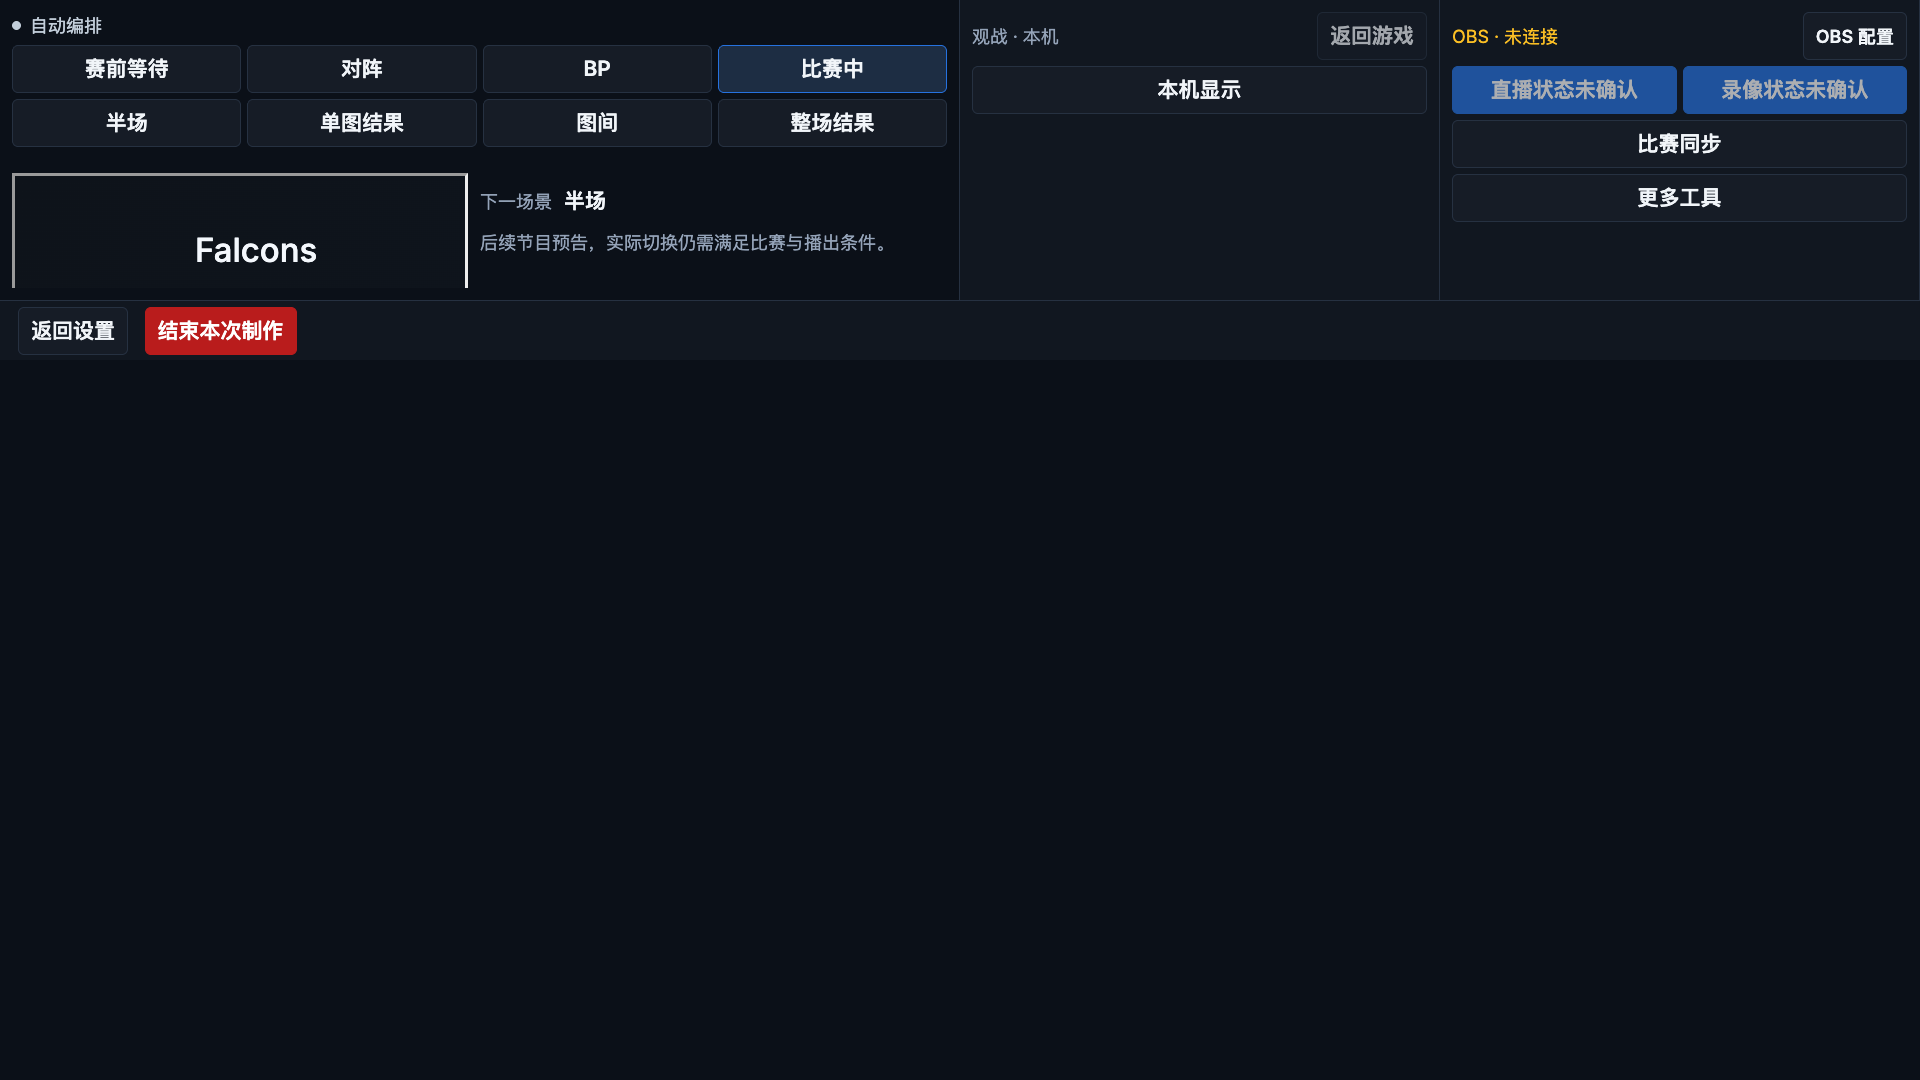
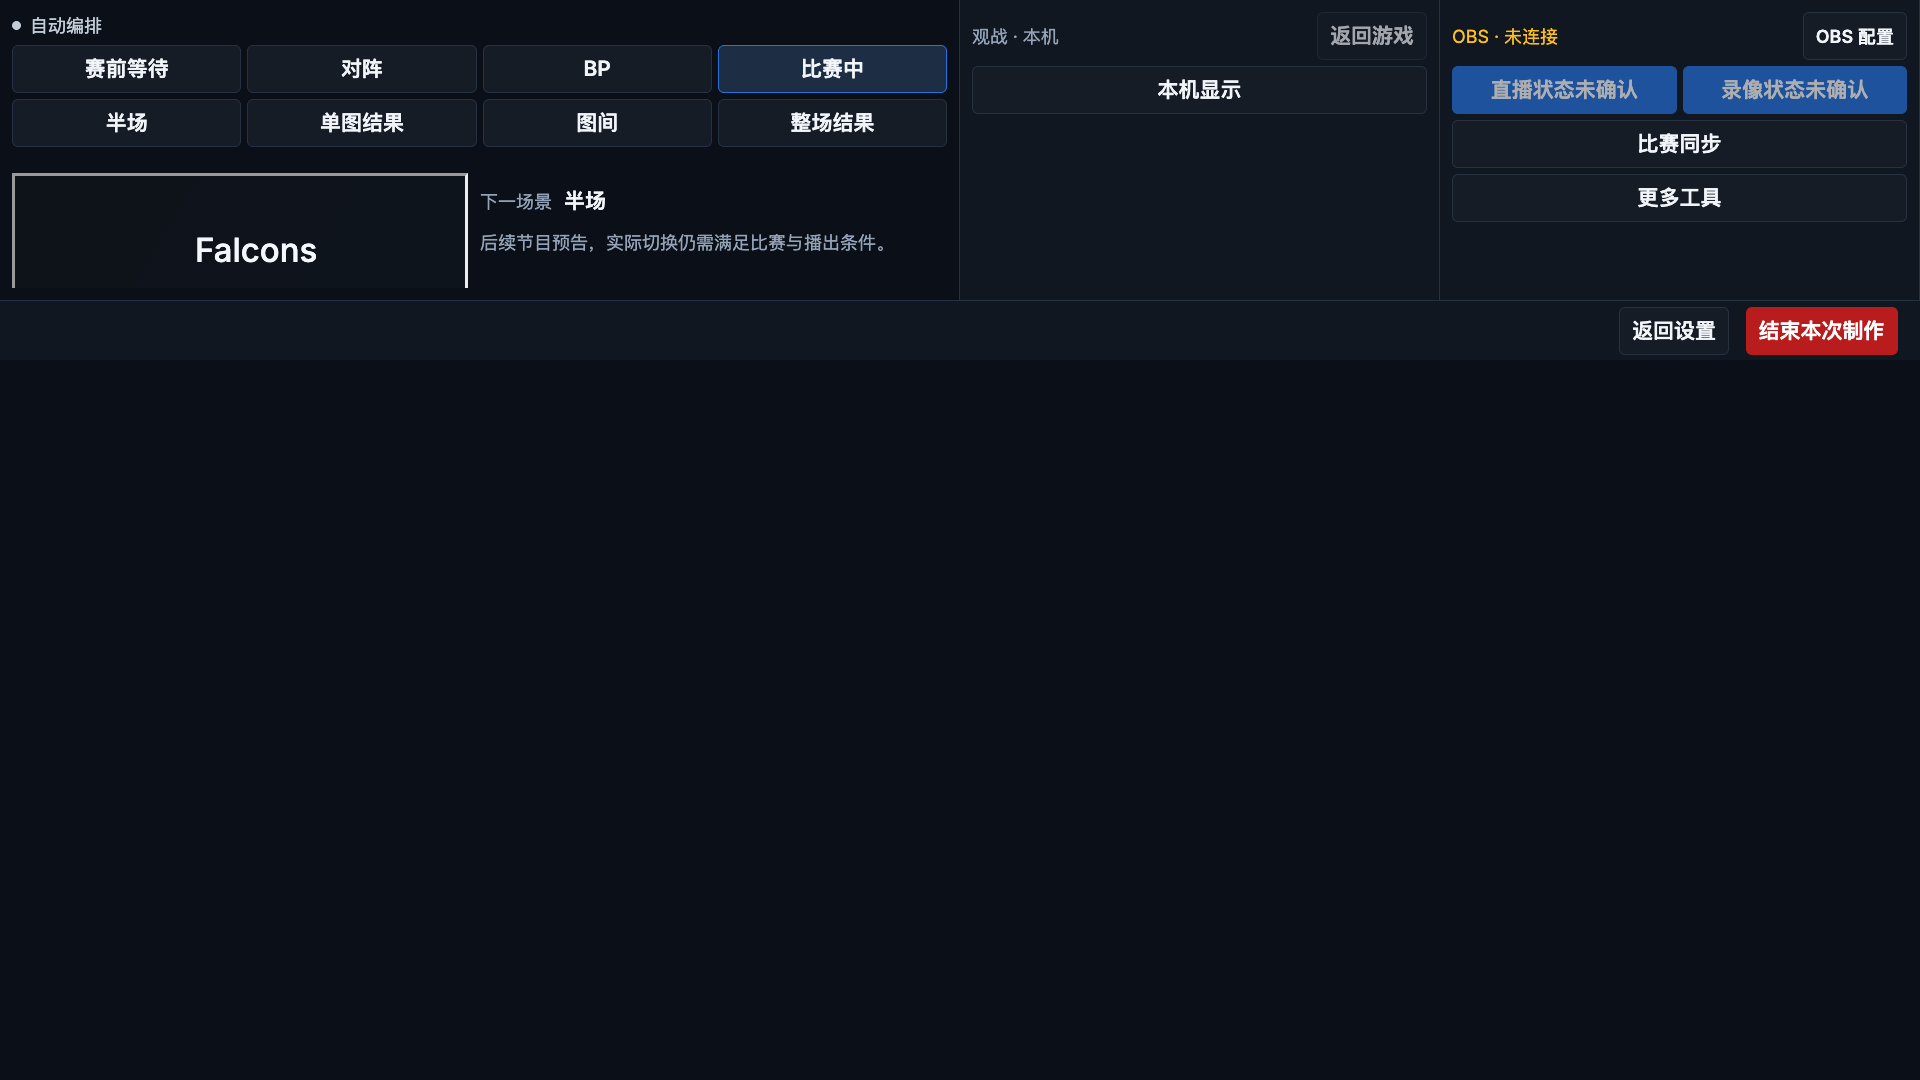
fix: 恢复准备任务宽度与现场底栏右对齐

Changed region(s): [[0.8438, 0.275, 1.0, 0.3361], [0.0, 0.275, 0.1562, 0.3361]]

diff --git a/apps/web/src/preparation/PreparationPage.tsx b/apps/web/src/preparation/PreparationPage.tsx
@@ -283,7 +283,20 @@ export function PreparationPage() {
             <div className="preparation-heading__buttons">
               {path === '/' ? (
                 <details className="preparation-tools-menu" ref={toolsMenuRef}>
-                  <summary className="mizar-button">工具 ▾</summary>
+                  <summary className="mizar-button">
+                    工具
+                    <svg
+                      width="12"
+                      height="12"
+                      viewBox="0 0 12 12"
+                      fill="none"
+                      stroke="currentColor"
+                      strokeWidth="1.5"
+                      aria-hidden="true"
+                    >
+                      <path d="m3 4.5 3 3 3-3" strokeLinecap="round" strokeLinejoin="round" />
+                    </svg>
+                  </summary>
                   <div className="preparation-tools-menu__list">
                     <Button
                       onClick={() => {

diff --git a/apps/web/src/preparation/preparation.css b/apps/web/src/preparation/preparation.css
@@ -839,7 +839,9 @@
   grid-template-rows: subgrid;
   row-gap: normal;
 }
-.preparation-task-links {
+.preparation-dashboard > .preparation-task-links {
+  grid-column: 1;
+  grid-row: 2;
   display: grid;
   grid-template-columns: repeat(3, minmax(0, 1fr));
   gap: var(--mizar-layout-gap);
@@ -914,14 +916,20 @@
 .preparation-heading__buttons {
   display: flex;
   align-items: center;
-  gap: var(--mizar-layout-compact);
+  gap: var(--mizar-layout-padding);
 }
 .preparation-tools-menu {
   position: relative;
 }
 .preparation-tools-menu > summary {
   list-style: none;
-  cursor: pointer;
+  min-height: var(--mizar-layout-target);
+  gap: calc(var(--mizar-layout-compact) / 2);
+}
+.preparation-tools-menu:not([open]) > summary:not(:hover) {
+  background: transparent;
+  border-color: transparent;
+  color: var(--mizar-fg-secondary);
 }
 .preparation-tools-menu > summary::-webkit-details-marker {
   display: none;

diff --git a/apps/web/src/workspace/workspace.css b/apps/web/src/workspace/workspace.css
@@ -451,6 +451,7 @@
   align-items: center;
   gap: var(--mizar-layout-compact);
   flex: 0 0 auto;
+  margin-inline-start: auto;
   min-width: 0;
 }
 .workspace-footer-actions > .mizar-button {

diff --git a/.impeccable/audit-shots/workbench/after-pr1/MANIFEST.md b/.impeccable/audit-shots/workbench/after-pr1/MANIFEST.md
@@ -20,4 +20,6 @@ PR1 的对照基线为 `c66e27fc`。比赛资料沿用 `fixtures/epl-s24/match-d
 
 交互核验覆盖首页工具键盘展开、Demo 深链接与退出后焦点恢复，HUD 编辑器的示例／回放／实时来源以及草稿、保存与启用状态，GoTV 入口在雷达有无数据时直达，左栏菜单打开本图资料，以及底栏退出确认。「恢复自动」仅在 `manual` 和 `blocked` 可见。底栏在本次视口中无溢出。
 
+复核后重截 01、06、07。比赛卡与任务区左边缘对齐，均宽 921.77px，三个任务卡各宽约 299px。「工具」可用键盘展开。组合工作台的底栏按钮距右边缘 12px，独立底栏有无提示时均为 18px；退出确认可取消。隔离环境中实测选中类 EWC 只切换预览，「调整此预设」打开对应编辑器，只有点击「启用 类 EWC」才更新启用版本。该轮复核无页面或控制台错误。
+
 Vite 和隔离 Companion 已关闭，端口 4317、4318 已确认无监听。
